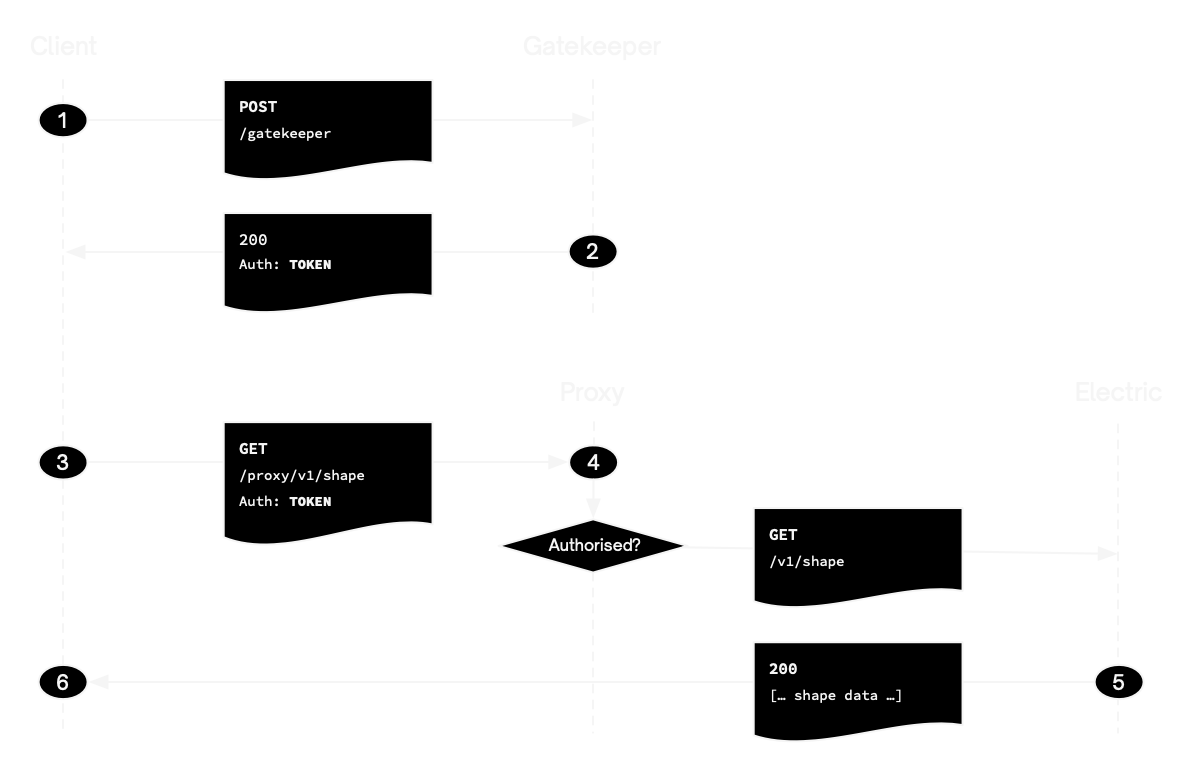
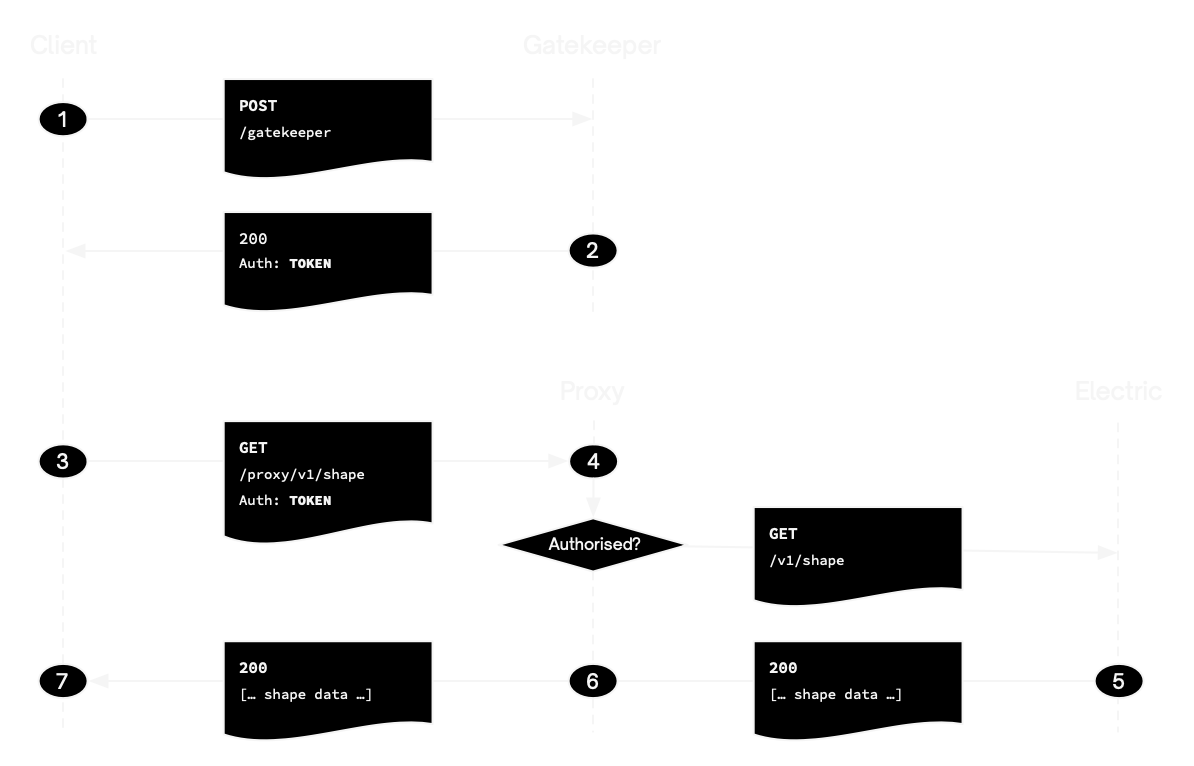
docs: clarify that the response goes through the proxy.

diff --git a/examples/gatekeeper-auth/README.md b/examples/gatekeeper-auth/README.md
@@ -50,8 +50,9 @@ The core of this example is an [Elixir/Phoenix](https://www.phoenixframework.org
 #### Proxy endpoint
 
 4. the proxy validates the JWT auth token and verifies that the shape definition in the token matches the shape being requested; if so it reverse-proxies the request onto Electric
-5. Electric then handles the request as normal, sending a response back through the proxy to the client
-6. the client can then process the data and make additional requests using the same auth token (step 3); if the auth token expires or is rejected, the client starts again (step 1).
+5. Electric then handles the request as normal
+6. sending a response back *through the proxy* to the client
+7. the client can then process the data and make additional requests using the same auth token (step 3); if the auth token expires or is rejected, the client starts again (step 1).
 
 
 ## How to run
